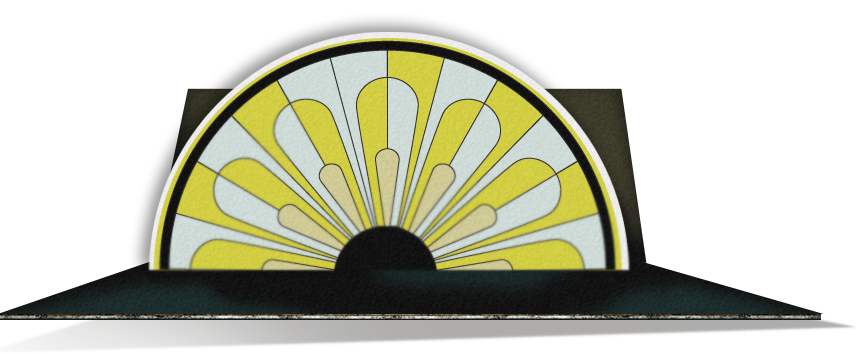
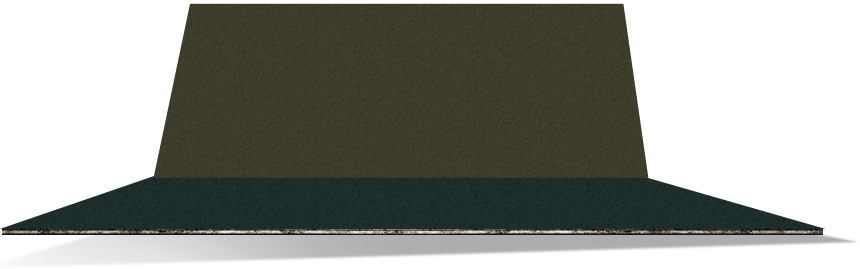
Add grammy stand.

diff --git a/app/index.html b/app/index.html
@@ -47,7 +47,7 @@ title: Hi, We are Gizra
               <ul class="scene grammy"
                   data-limit-y="0.01"
                   data-limit-x="2">
-                <li class="layer" data-depth="0.00"></li>
+                <li class="layer" data-depth="0.00"><img class="stand" src="/images/slides/grammy/stand.png"></li>
                 <li class="layer" data-depth="0.10"><img class="diamond-2" src="/images/slides/grammy/daimond2.png"></li>
                 <li class="layer" data-depth="0.40"><img class="gramophone-2" src="/images/slides/grammy/gramophone2.png"></li>
                 <li class="layer" data-depth="0.70"><img class="diamond-1" src="/images/slides/grammy/daimond1.png"></li>
@@ -62,7 +62,7 @@ title: Hi, We are Gizra
               <ul class="scene grammy"
                   data-limit-y="0.01"
                   data-limit-x="2">
-                <li class="layer" data-depth="0.00"></li>
+                <li class="layer" data-depth="0.00"><img class="stand" src="/images/slides/grammy/stand.png"></li>
                 <li class="layer" data-depth="0.10"><img class="diamond-2" src="/images/slides/grammy/daimond2.png"></li>
                 <li class="layer" data-depth="0.40"><img class="gramophone-2" src="/images/slides/grammy/gramophone2.png"></li>
                 <li class="layer" data-depth="0.70"><img class="diamond-1" src="/images/slides/grammy/daimond1.png"></li>

diff --git a/app/_scss/main.scss b/app/_scss/main.scss
@@ -111,7 +111,7 @@ header {
     .scene {
       position: relative;
       min-height: 500px;
-      width: 838px;
+      width: 860px;
       margin: 0 auto;
 
       img {
@@ -140,6 +140,11 @@ header {
 
         .diamond-2 {
           left: 18%;
+          bottom: 110px;
+        }
+
+        .stand {
+          left: 16%;
           bottom: 110px;
         }
       }

diff --git a/app/js/main.js b/app/js/main.js
@@ -1,3 +1,3 @@
 $(function() {
-  $('#slideshow .scene').parallax();
+  // $('#slideshow .scene').parallax();
 });
